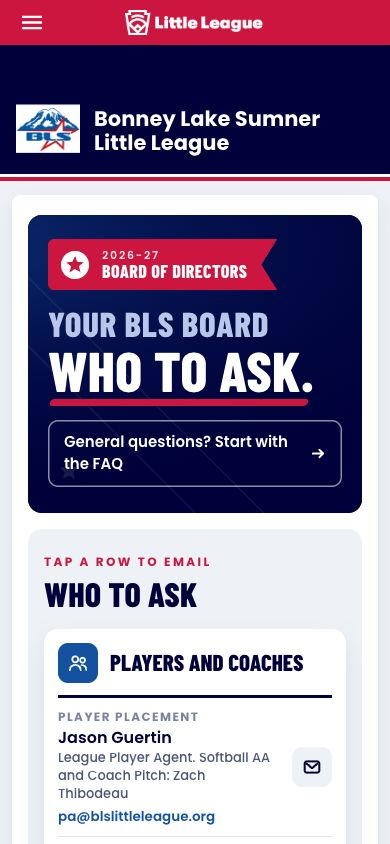
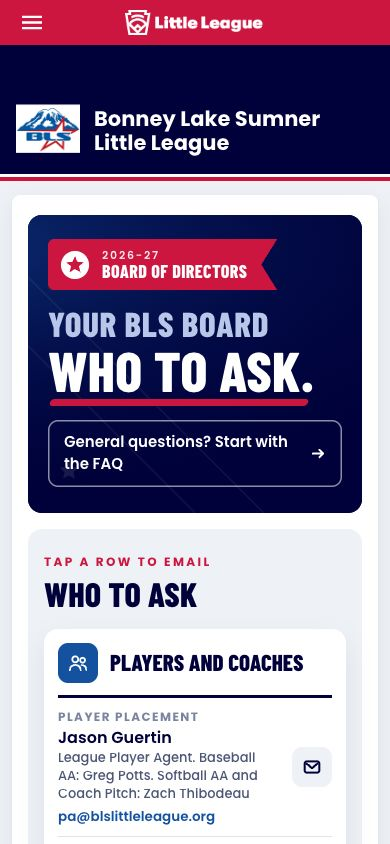
BLS preview: Greg Potts listed as Baseball AA player agent (board feedback 11/5)
Generated with [Claude Code](https://claude.ai/code)
via [Happy](https://happy.engineering)

Claude-Session: https://claude.ai/code/session_018pH9PNFLS4TcMKKFXS6iHD

Changed region(s): [[0.1538, 0.8934, 0.6769, 0.955]]

diff --git a/bls/preview/proposed/board.html b/bls/preview/proposed/board.html
@@ -1133,7 +1133,7 @@ window.addEventListener('OneTrustGroupsUpdated', handleGptAd);
 <div class="bd-group">
 <header><span class="bd-gi"><svg aria-hidden="true" fill="none" stroke="#fff" stroke-linecap="round" stroke-linejoin="round" stroke-width="2" viewbox="0 0 24 24"><circle cx="9" cy="8" r="3.2"></circle><path d="M3 20c0-3.5 2.7-6 6-6s6 2.5 6 6"></path><circle cx="17" cy="9" r="2.6"></circle><path d="M16 14.2c3 0 5 2.2 5 5.3"></path></svg></span><h3>Players and coaches</h3></header>
 <ul>
-<li><a class="bd-row" href="mailto:pa@blslittleleague.org"><div><span>Player placement</span><b>Jason Guertin<small>League Player Agent. Softball AA and Coach Pitch: Zach Thibodeau</small></b><em>pa@<wbr/>blslittleleague.org</em></div><i class="bd-go"><svg aria-hidden="true" viewbox="0 0 16 16"><rect fill="none" height="10" rx="2" stroke-width="1.8" width="13" x="1.5" y="3"></rect><path d="M2.5 4.5L8 9l5.5-4.5" fill="none" stroke-linejoin="round" stroke-width="1.8"></path></svg></i></a></li>
+<li><a class="bd-row" href="mailto:pa@blslittleleague.org"><div><span>Player placement</span><b>Jason Guertin<small>League Player Agent. Baseball AA: Greg Potts. Softball AA and Coach Pitch: Zach Thibodeau</small></b><em>pa@<wbr/>blslittleleague.org</em></div><i class="bd-go"><svg aria-hidden="true" viewbox="0 0 16 16"><rect fill="none" height="10" rx="2" stroke-width="1.8" width="13" x="1.5" y="3"></rect><path d="M2.5 4.5L8 9l5.5-4.5" fill="none" stroke-linejoin="round" stroke-width="1.8"></path></svg></i></a></li>
 <li><a class="bd-row" href="mailto:vpchallenger@blslittleleague.org"><div><span>Challenger division</span><b>Mandie Pitingoro<small>VP of Challenger</small></b><em>vpchallenger@<wbr/>blslittleleague.org</em></div><i class="bd-go"><svg aria-hidden="true" viewbox="0 0 16 16"><rect fill="none" height="10" rx="2" stroke-width="1.8" width="13" x="1.5" y="3"></rect><path d="M2.5 4.5L8 9l5.5-4.5" fill="none" stroke-linejoin="round" stroke-width="1.8"></path></svg></i></a></li>
 <li><a class="bd-row" href="mailto:coaching@blslittleleague.org"><div><span>Coaching</span><b>Rod Vincent<small>Coaching Coordinator</small></b><em>coaching@<wbr/>blslittleleague.org</em></div><i class="bd-go"><svg aria-hidden="true" viewbox="0 0 16 16"><rect fill="none" height="10" rx="2" stroke-width="1.8" width="13" x="1.5" y="3"></rect><path d="M2.5 4.5L8 9l5.5-4.5" fill="none" stroke-linejoin="round" stroke-width="1.8"></path></svg></i></a></li>
 <li><a class="bd-row" href="mailto:safety@blslittleleague.org"><div><span>Safety</span><b>Daneen Galvez<small>Safety Officer</small></b><em>safety@<wbr/>blslittleleague.org</em></div><i class="bd-go"><svg aria-hidden="true" viewbox="0 0 16 16"><rect fill="none" height="10" rx="2" stroke-width="1.8" width="13" x="1.5" y="3"></rect><path d="M2.5 4.5L8 9l5.5-4.5" fill="none" stroke-linejoin="round" stroke-width="1.8"></path></svg></i></a></li>
@@ -1574,5 +1574,5 @@ $(window).load(function(){
        } 
    </script>
 <script src="//translate.google.com/translate_a/element.js?cb=googleTranslateElementInit" type="text/javascript"></script>
-<div id="blsPreviewBar" style="position:fixed;left:0;right:0;bottom:0;z-index:2147483647;background:#00013a;padding:8px 10px calc(8px + env(safe-area-inset-bottom,0px));box-shadow:0 -4px 16px rgba(0,0,0,.35);"><div class="blsb" id="blsbBar"></div><div id="blsSwitch" style="display:flex;gap:6px;max-width:560px;margin:0 auto 6px;"><a aria-label="Previous page: Health &amp; Safety" href="https://go.blslittleleague.org/bls/preview/proposed/health.html" style="flex:0 0 auto;display:flex;align-items:center;padding:0 12px;border-radius:999px;font:700 14px/1 Arial,sans-serif;text-decoration:none;color:#fff;border:1px solid rgba(255,255,255,.35);white-space:nowrap;" title="Health &amp; Safety">‹ Prev</a><a href="https://go.blslittleleague.org/bls/preview/today/board.html" style="background:#fff;color:#00013a;flex:1;text-align:center;padding:11px 6px;border-radius:999px;font:700 15px/1 Arial,sans-serif;text-decoration:none;">Today</a><a href="https://go.blslittleleague.org/bls/preview/proposed/board.html" style="background:#cd163f;color:#fff;flex:1;text-align:center;padding:11px 6px;border-radius:999px;font:700 15px/1 Arial,sans-serif;text-decoration:none;">Proposed</a><a aria-label="Next page: Calendar" href="https://go.blslittleleague.org/bls/preview/proposed/calendar.html" style="flex:0 0 auto;display:flex;align-items:center;padding:0 12px;border-radius:999px;font:700 14px/1 Arial,sans-serif;text-decoration:none;color:#fff;border:1px solid rgba(255,255,255,.35);white-space:nowrap;" title="Calendar">Next ›</a></div><div id="blsPreviewInfo" style="text-align:center;color:#c9d3f2;font:600 12px/1.3 Arial,sans-serif;">PREVIEW · Board Members · <a href="https://go.blslittleleague.org/bls/preview/#p-board" style="color:#fff;">All pages</a></div><div id="blsNeeds" style="text-align:center;color:#9be3b5;font:700 12px/1.6 Arial,sans-serif;">All facts in</div></div><div id="blsPreviewSpacer" style="height:96px"></div><script>window.BLSB={"base": "https://go.blslittleleague.org/bls/preview", "page": "board", "variant": "proposed", "index": false, "pages": {"home": {"t": "Home", "req": ["Daniel (Website) or Melissa (Information Officer), in Sports Connect: take down the site-wide announcement bar (gear return, Daffodil Shed, the first thing on every page) or set it to 'Spring 2027 registration opens Fri Nov 27'; pin the registration story first in Local News; move the 'Meet the 2026-27 BLS Board' and 'Join the Fields Committee for 2027' posts off the home feed. Site settings and news posts, not content blocks, so the preview still shows them."]}, "registration": {"t": "Registration Info", "req": ["Daniel: put the League Age page live first. The card's 'Check your league age' row and the Baseball and Softball tiles link to it."]}, "volunteer": {"t": "Volunteer Opportunities", "req": ["Daniel: finish the Spring 2027 registration setup and move volunteer sign-up onto this page. It's running today, just not shown here.", "Daniel: put the Umpires page live first. The Umpire tile links to it."]}, "corpmatch": {"t": "Corporate Match", "req": []}, "sponsorship": {"t": "Sponsorship Opportunities", "req": ["Info needed (Ashley Gauthier): the 2027 sponsor prices. The page shows 2026 prices."]}, "allstars": {"t": "Allstars", "req": ["Daniel: put the Champions page live first. The 2025 card on this page links to it."]}, "fallball": {"t": "Fall Ball", "req": []}, "coaches": {"t": "Coaches Corner", "req": ["Daniel: put the Coach Run Book page live first. The hero clipboard, the pitch count row and the Get cleared card link to it."]}, "faq": {"t": "FAQ", "req": ["Daniel: put the League Age page live first. Answer 2's button links to it.", "Daniel: put the Fields page live first. Answer 7's button links to it."]}, "health": {"t": "Health & Safety", "req": []}, "board": {"t": "Board Members", "req": []}, "calendar": {"t": "Calendar", "req": []}, "champions": {"t": "Champions", "req": []}, "fields": {"t": "Fields", "req": []}, "umpires": {"t": "Umpires", "req": []}, "runbook": {"t": "Coach Run Book", "req": ["Daniel: turn on spring 2027 coach and volunteer sign-up, with the Secretary or Information Officer.", "Daniel: put the Fields page live on blslittleleague.org first.", "Daniel: put the League Age page live first. The roster step links to it.", "Info needed (Dena Berkey): the 2027 uniform sizing steps by division."]}, "schedules": {"t": "Schedules & Scores", "req": ["Daniel: create one GameChanger league per division.", "Daniel: test that a league link opens without a GameChanger account."]}, "leagueage": {"t": "League Age", "req": ["Daniel (Website), in Sports Connect: edit menu page 1270154 (Registration > Age Charts) so it links to this League Age page and rename it League Age; change the footer quick link League Age Calculator to the same page. Both send parents to littleleague.org from every page today, the hop that lost Coach's wife.", "Daniel (Website), same pass in Sports Connect: menu page 1270164 Challenger Division (littleleague.org) to this page's Challenger box or the Registration page; 776461 Approved Bats (littleleague.org) to the FAQ once the bat rule is in answer 3; the five Health menu PDFs 776463, 776474, 776475, 776476 and 776477 (clubs.bluesombrero.com) to the /portals/50558/ paths the Health page uses."]}}};</script><script defer="" src="https://go.blslittleleague.org/bls/preview/board/board.js?v=0676cf4a4f"></script></body>
+<div id="blsPreviewBar" style="position:fixed;left:0;right:0;bottom:0;z-index:2147483647;background:#00013a;padding:8px 10px calc(8px + env(safe-area-inset-bottom,0px));box-shadow:0 -4px 16px rgba(0,0,0,.35);"><div class="blsb" id="blsbBar"></div><div id="blsSwitch" style="display:flex;gap:6px;max-width:560px;margin:0 auto 6px;"><a aria-label="Previous page: Health &amp; Safety" href="https://go.blslittleleague.org/bls/preview/proposed/health.html" style="flex:0 0 auto;display:flex;align-items:center;padding:0 12px;border-radius:999px;font:700 14px/1 Arial,sans-serif;text-decoration:none;color:#fff;border:1px solid rgba(255,255,255,.35);white-space:nowrap;" title="Health &amp; Safety">‹ Prev</a><a href="https://go.blslittleleague.org/bls/preview/today/board.html" style="background:#fff;color:#00013a;flex:1;text-align:center;padding:11px 6px;border-radius:999px;font:700 15px/1 Arial,sans-serif;text-decoration:none;">Today</a><a href="https://go.blslittleleague.org/bls/preview/proposed/board.html" style="background:#cd163f;color:#fff;flex:1;text-align:center;padding:11px 6px;border-radius:999px;font:700 15px/1 Arial,sans-serif;text-decoration:none;">Proposed</a><a aria-label="Next page: Calendar" href="https://go.blslittleleague.org/bls/preview/proposed/calendar.html" style="flex:0 0 auto;display:flex;align-items:center;padding:0 12px;border-radius:999px;font:700 14px/1 Arial,sans-serif;text-decoration:none;color:#fff;border:1px solid rgba(255,255,255,.35);white-space:nowrap;" title="Calendar">Next ›</a></div><div id="blsPreviewInfo" style="text-align:center;color:#c9d3f2;font:600 12px/1.3 Arial,sans-serif;">PREVIEW · Board Members · <a href="https://go.blslittleleague.org/bls/preview/#p-board" style="color:#fff;">All pages</a></div><div id="blsNeeds" style="text-align:center;color:#9be3b5;font:700 12px/1.6 Arial,sans-serif;">All facts in</div></div><div id="blsPreviewSpacer" style="height:96px"></div><script>window.BLSB={"base": "https://go.blslittleleague.org/bls/preview", "page": "board", "variant": "proposed", "index": false, "pages": {"home": {"t": "Home", "req": ["Daniel: confirm a content block can be added above the home slideshow (Sports Connect home template).", "Daniel: after Saturday, take down the gear return bar and pin the registration post first in Local News."]}, "registration": {"t": "Registration Info", "req": ["Daniel: put the League Age page live first. The card's 'Check your league age' row and the Baseball and Softball tiles link to it.", "Daniel: confirm the 2027 division names and prices with the VPs before launch. The page mirrors Spring 2026 until then."]}, "volunteer": {"t": "Volunteer Opportunities", "req": ["Daniel: finish the Spring 2027 registration setup and move volunteer sign-up onto this page. It's running today, just not shown here.", "Daniel: put the Umpires page live first. The Umpire tile links to it."]}, "corpmatch": {"t": "Corporate Match", "req": []}, "sponsorship": {"t": "Sponsorship Opportunities", "req": ["Info needed (Ashley Gauthier): the 2027 sponsor prices. The page shows 2026 prices."]}, "allstars": {"t": "Allstars", "req": ["Daniel: put the Champions page live first. The 2025 card on this page links to it."]}, "fallball": {"t": "Fall Ball", "req": []}, "coaches": {"t": "Coaches Corner", "req": ["Daniel: put the Coach Run Book page live first. The hero clipboard, the pitch count row and the Get cleared card link to it."]}, "faq": {"t": "FAQ", "req": ["Daniel: put the League Age page live first. Answer 2's button links to it.", "Daniel: put the Fields page live first. Answer 7's button links to it."]}, "health": {"t": "Health & Safety", "req": []}, "board": {"t": "Board Members", "req": []}, "calendar": {"t": "Calendar", "req": []}, "champions": {"t": "Champions", "req": []}, "fields": {"t": "Fields", "req": []}, "umpires": {"t": "Umpires", "req": []}, "runbook": {"t": "Coach Run Book", "req": ["Daniel: turn on spring 2027 coach and volunteer sign-up, with the Secretary or Information Officer.", "Daniel: put the Fields page live on blslittleleague.org first.", "Daniel: put the League Age page live first. The roster step links to it.", "Info needed (Dena Berkey): the 2027 uniform sizing steps by division."]}, "schedules": {"t": "Schedules & Scores", "req": ["Daniel: create one GameChanger league per division.", "Daniel: test that a league link opens without a GameChanger account."]}, "leagueage": {"t": "League Age", "req": ["Daniel: point the Age Charts menu link and the footer League Age Calculator link to this page.", "Daniel: point the Challenger, Approved Bats and Health menu links to our own pages.", "Info needed (Luke Kress): which league ages play softball AA, so the softball table can show it. AA ran in 2026 (Sports Connect schedules) but the age chart only names Minors B and Minors A."]}}};</script><script defer="" src="https://go.blslittleleague.org/bls/preview/board/board.js?v=0676cf4a4f"></script></body>
 </html>

diff --git a/bls/preview/today/board.html b/bls/preview/today/board.html
@@ -1256,5 +1256,5 @@ $(window).load(function(){
        } 
    </script>
 <script src="//translate.google.com/translate_a/element.js?cb=googleTranslateElementInit" type="text/javascript"></script>
-<div id="blsPreviewBar" style="position:fixed;left:0;right:0;bottom:0;z-index:2147483647;background:#00013a;padding:8px 10px calc(8px + env(safe-area-inset-bottom,0px));box-shadow:0 -4px 16px rgba(0,0,0,.35);"><div class="blsb" id="blsbBar"></div><div id="blsSwitch" style="display:flex;gap:6px;max-width:560px;margin:0 auto 6px;"><a aria-label="Previous page: Health &amp; Safety" href="https://go.blslittleleague.org/bls/preview/today/health.html" style="flex:0 0 auto;display:flex;align-items:center;padding:0 12px;border-radius:999px;font:700 14px/1 Arial,sans-serif;text-decoration:none;color:#fff;border:1px solid rgba(255,255,255,.35);white-space:nowrap;" title="Health &amp; Safety">‹ Prev</a><a href="https://go.blslittleleague.org/bls/preview/today/board.html" style="background:#cd163f;color:#fff;flex:1;text-align:center;padding:11px 6px;border-radius:999px;font:700 15px/1 Arial,sans-serif;text-decoration:none;">Today</a><a href="https://go.blslittleleague.org/bls/preview/proposed/board.html" style="background:#fff;color:#00013a;flex:1;text-align:center;padding:11px 6px;border-radius:999px;font:700 15px/1 Arial,sans-serif;text-decoration:none;">Proposed</a><a aria-label="Next page: Calendar" href="https://go.blslittleleague.org/bls/preview/today/calendar.html" style="flex:0 0 auto;display:flex;align-items:center;padding:0 12px;border-radius:999px;font:700 14px/1 Arial,sans-serif;text-decoration:none;color:#fff;border:1px solid rgba(255,255,255,.35);white-space:nowrap;" title="Calendar">Next ›</a></div><div id="blsPreviewInfo" style="text-align:center;color:#c9d3f2;font:600 12px/1.3 Arial,sans-serif;">PREVIEW · Board Members · <a href="https://go.blslittleleague.org/bls/preview/#p-board" style="color:#fff;">All pages</a></div><div id="blsNeeds" style="text-align:center;color:#9be3b5;font:700 12px/1.6 Arial,sans-serif;">All facts in</div></div><div id="blsPreviewSpacer" style="height:96px"></div><script>window.BLSB={"base": "https://go.blslittleleague.org/bls/preview", "page": "board", "variant": "today", "index": false, "pages": {"home": {"t": "Home", "req": ["Daniel (Website) or Melissa (Information Officer), in Sports Connect: take down the site-wide announcement bar (gear return, Daffodil Shed, the first thing on every page) or set it to 'Spring 2027 registration opens Fri Nov 27'; pin the registration story first in Local News; move the 'Meet the 2026-27 BLS Board' and 'Join the Fields Committee for 2027' posts off the home feed. Site settings and news posts, not content blocks, so the preview still shows them."]}, "registration": {"t": "Registration Info", "req": ["Daniel: put the League Age page live first. The card's 'Check your league age' row and the Baseball and Softball tiles link to it."]}, "volunteer": {"t": "Volunteer Opportunities", "req": ["Daniel: finish the Spring 2027 registration setup and move volunteer sign-up onto this page. It's running today, just not shown here.", "Daniel: put the Umpires page live first. The Umpire tile links to it."]}, "corpmatch": {"t": "Corporate Match", "req": []}, "sponsorship": {"t": "Sponsorship Opportunities", "req": ["Info needed (Ashley Gauthier): the 2027 sponsor prices. The page shows 2026 prices."]}, "allstars": {"t": "Allstars", "req": ["Daniel: put the Champions page live first. The 2025 card on this page links to it."]}, "fallball": {"t": "Fall Ball", "req": []}, "coaches": {"t": "Coaches Corner", "req": ["Daniel: put the Coach Run Book page live first. The hero clipboard, the pitch count row and the Get cleared card link to it."]}, "faq": {"t": "FAQ", "req": ["Daniel: put the League Age page live first. Answer 2's button links to it.", "Daniel: put the Fields page live first. Answer 7's button links to it."]}, "health": {"t": "Health & Safety", "req": []}, "board": {"t": "Board Members", "req": []}, "calendar": {"t": "Calendar", "req": []}, "champions": {"t": "Champions", "req": []}, "fields": {"t": "Fields", "req": []}, "umpires": {"t": "Umpires", "req": []}, "runbook": {"t": "Coach Run Book", "req": ["Daniel: turn on spring 2027 coach and volunteer sign-up, with the Secretary or Information Officer.", "Daniel: put the Fields page live on blslittleleague.org first.", "Daniel: put the League Age page live first. The roster step links to it.", "Info needed (Dena Berkey): the 2027 uniform sizing steps by division."]}, "schedules": {"t": "Schedules & Scores", "req": ["Daniel: create one GameChanger league per division.", "Daniel: test that a league link opens without a GameChanger account."]}, "leagueage": {"t": "League Age", "req": ["Daniel (Website), in Sports Connect: edit menu page 1270154 (Registration > Age Charts) so it links to this League Age page and rename it League Age; change the footer quick link League Age Calculator to the same page. Both send parents to littleleague.org from every page today, the hop that lost Coach's wife.", "Daniel (Website), same pass in Sports Connect: menu page 1270164 Challenger Division (littleleague.org) to this page's Challenger box or the Registration page; 776461 Approved Bats (littleleague.org) to the FAQ once the bat rule is in answer 3; the five Health menu PDFs 776463, 776474, 776475, 776476 and 776477 (clubs.bluesombrero.com) to the /portals/50558/ paths the Health page uses."]}}};</script><script defer="" src="https://go.blslittleleague.org/bls/preview/board/board.js?v=0676cf4a4f"></script></body>
+<div id="blsPreviewBar" style="position:fixed;left:0;right:0;bottom:0;z-index:2147483647;background:#00013a;padding:8px 10px calc(8px + env(safe-area-inset-bottom,0px));box-shadow:0 -4px 16px rgba(0,0,0,.35);"><div class="blsb" id="blsbBar"></div><div id="blsSwitch" style="display:flex;gap:6px;max-width:560px;margin:0 auto 6px;"><a aria-label="Previous page: Health &amp; Safety" href="https://go.blslittleleague.org/bls/preview/today/health.html" style="flex:0 0 auto;display:flex;align-items:center;padding:0 12px;border-radius:999px;font:700 14px/1 Arial,sans-serif;text-decoration:none;color:#fff;border:1px solid rgba(255,255,255,.35);white-space:nowrap;" title="Health &amp; Safety">‹ Prev</a><a href="https://go.blslittleleague.org/bls/preview/today/board.html" style="background:#cd163f;color:#fff;flex:1;text-align:center;padding:11px 6px;border-radius:999px;font:700 15px/1 Arial,sans-serif;text-decoration:none;">Today</a><a href="https://go.blslittleleague.org/bls/preview/proposed/board.html" style="background:#fff;color:#00013a;flex:1;text-align:center;padding:11px 6px;border-radius:999px;font:700 15px/1 Arial,sans-serif;text-decoration:none;">Proposed</a><a aria-label="Next page: Calendar" href="https://go.blslittleleague.org/bls/preview/today/calendar.html" style="flex:0 0 auto;display:flex;align-items:center;padding:0 12px;border-radius:999px;font:700 14px/1 Arial,sans-serif;text-decoration:none;color:#fff;border:1px solid rgba(255,255,255,.35);white-space:nowrap;" title="Calendar">Next ›</a></div><div id="blsPreviewInfo" style="text-align:center;color:#c9d3f2;font:600 12px/1.3 Arial,sans-serif;">PREVIEW · Board Members · <a href="https://go.blslittleleague.org/bls/preview/#p-board" style="color:#fff;">All pages</a></div><div id="blsNeeds" style="text-align:center;color:#9be3b5;font:700 12px/1.6 Arial,sans-serif;">All facts in</div></div><div id="blsPreviewSpacer" style="height:96px"></div><script>window.BLSB={"base": "https://go.blslittleleague.org/bls/preview", "page": "board", "variant": "today", "index": false, "pages": {"home": {"t": "Home", "req": ["Daniel: confirm a content block can be added above the home slideshow (Sports Connect home template).", "Daniel: after Saturday, take down the gear return bar and pin the registration post first in Local News."]}, "registration": {"t": "Registration Info", "req": ["Daniel: put the League Age page live first. The card's 'Check your league age' row and the Baseball and Softball tiles link to it.", "Daniel: confirm the 2027 division names and prices with the VPs before launch. The page mirrors Spring 2026 until then."]}, "volunteer": {"t": "Volunteer Opportunities", "req": ["Daniel: finish the Spring 2027 registration setup and move volunteer sign-up onto this page. It's running today, just not shown here.", "Daniel: put the Umpires page live first. The Umpire tile links to it."]}, "corpmatch": {"t": "Corporate Match", "req": []}, "sponsorship": {"t": "Sponsorship Opportunities", "req": ["Info needed (Ashley Gauthier): the 2027 sponsor prices. The page shows 2026 prices."]}, "allstars": {"t": "Allstars", "req": ["Daniel: put the Champions page live first. The 2025 card on this page links to it."]}, "fallball": {"t": "Fall Ball", "req": []}, "coaches": {"t": "Coaches Corner", "req": ["Daniel: put the Coach Run Book page live first. The hero clipboard, the pitch count row and the Get cleared card link to it."]}, "faq": {"t": "FAQ", "req": ["Daniel: put the League Age page live first. Answer 2's button links to it.", "Daniel: put the Fields page live first. Answer 7's button links to it."]}, "health": {"t": "Health & Safety", "req": []}, "board": {"t": "Board Members", "req": []}, "calendar": {"t": "Calendar", "req": []}, "champions": {"t": "Champions", "req": []}, "fields": {"t": "Fields", "req": []}, "umpires": {"t": "Umpires", "req": []}, "runbook": {"t": "Coach Run Book", "req": ["Daniel: turn on spring 2027 coach and volunteer sign-up, with the Secretary or Information Officer.", "Daniel: put the Fields page live on blslittleleague.org first.", "Daniel: put the League Age page live first. The roster step links to it.", "Info needed (Dena Berkey): the 2027 uniform sizing steps by division."]}, "schedules": {"t": "Schedules & Scores", "req": ["Daniel: create one GameChanger league per division.", "Daniel: test that a league link opens without a GameChanger account."]}, "leagueage": {"t": "League Age", "req": ["Daniel: point the Age Charts menu link and the footer League Age Calculator link to this page.", "Daniel: point the Challenger, Approved Bats and Health menu links to our own pages.", "Info needed (Luke Kress): which league ages play softball AA, so the softball table can show it. AA ran in 2026 (Sports Connect schedules) but the age chart only names Minors B and Minors A."]}}};</script><script defer="" src="https://go.blslittleleague.org/bls/preview/board/board.js?v=0676cf4a4f"></script></body>
 </html>

diff --git a/bls/preview/modules/board.html b/bls/preview/modules/board.html
@@ -137,7 +137,7 @@
       <div class="bd-group">
         <header><span class="bd-gi"><svg viewBox="0 0 24 24" aria-hidden="true" fill="none" stroke="#fff" stroke-width="2" stroke-linecap="round" stroke-linejoin="round"><circle cx="9" cy="8" r="3.2"/><path d="M3 20c0-3.5 2.7-6 6-6s6 2.5 6 6"/><circle cx="17" cy="9" r="2.6"/><path d="M16 14.2c3 0 5 2.2 5 5.3"/></svg></span><h3>Players and coaches</h3></header>
         <ul>
-          <li><a class="bd-row" href="mailto:pa@blslittleleague.org"><div><span>Player placement</span><b>Jason Guertin<small>League Player Agent. Softball AA and Coach Pitch: Zach Thibodeau</small></b><em>pa@<wbr>blslittleleague.org</em></div><i class="bd-go"><svg viewBox="0 0 16 16" aria-hidden="true"><rect x="1.5" y="3" width="13" height="10" rx="2" fill="none" stroke-width="1.8"/><path d="M2.5 4.5L8 9l5.5-4.5" fill="none" stroke-width="1.8" stroke-linejoin="round"/></svg></i></a></li>
+          <li><a class="bd-row" href="mailto:pa@blslittleleague.org"><div><span>Player placement</span><b>Jason Guertin<small>League Player Agent. Baseball AA: Greg Potts. Softball AA and Coach Pitch: Zach Thibodeau</small></b><em>pa@<wbr>blslittleleague.org</em></div><i class="bd-go"><svg viewBox="0 0 16 16" aria-hidden="true"><rect x="1.5" y="3" width="13" height="10" rx="2" fill="none" stroke-width="1.8"/><path d="M2.5 4.5L8 9l5.5-4.5" fill="none" stroke-width="1.8" stroke-linejoin="round"/></svg></i></a></li>
           <li><a class="bd-row" href="mailto:vpchallenger@blslittleleague.org"><div><span>Challenger division</span><b>Mandie Pitingoro<small>VP of Challenger</small></b><em>vpchallenger@<wbr>blslittleleague.org</em></div><i class="bd-go"><svg viewBox="0 0 16 16" aria-hidden="true"><rect x="1.5" y="3" width="13" height="10" rx="2" fill="none" stroke-width="1.8"/><path d="M2.5 4.5L8 9l5.5-4.5" fill="none" stroke-width="1.8" stroke-linejoin="round"/></svg></i></a></li>
           <li><a class="bd-row" href="mailto:coaching@blslittleleague.org"><div><span>Coaching</span><b>Rod Vincent<small>Coaching Coordinator</small></b><em>coaching@<wbr>blslittleleague.org</em></div><i class="bd-go"><svg viewBox="0 0 16 16" aria-hidden="true"><rect x="1.5" y="3" width="13" height="10" rx="2" fill="none" stroke-width="1.8"/><path d="M2.5 4.5L8 9l5.5-4.5" fill="none" stroke-width="1.8" stroke-linejoin="round"/></svg></i></a></li>
           <li><a class="bd-row" href="mailto:safety@blslittleleague.org"><div><span>Safety</span><b>Daneen Galvez<small>Safety Officer</small></b><em>safety@<wbr>blslittleleague.org</em></div><i class="bd-go"><svg viewBox="0 0 16 16" aria-hidden="true"><rect x="1.5" y="3" width="13" height="10" rx="2" fill="none" stroke-width="1.8"/><path d="M2.5 4.5L8 9l5.5-4.5" fill="none" stroke-width="1.8" stroke-linejoin="round"/></svg></i></a></li>
